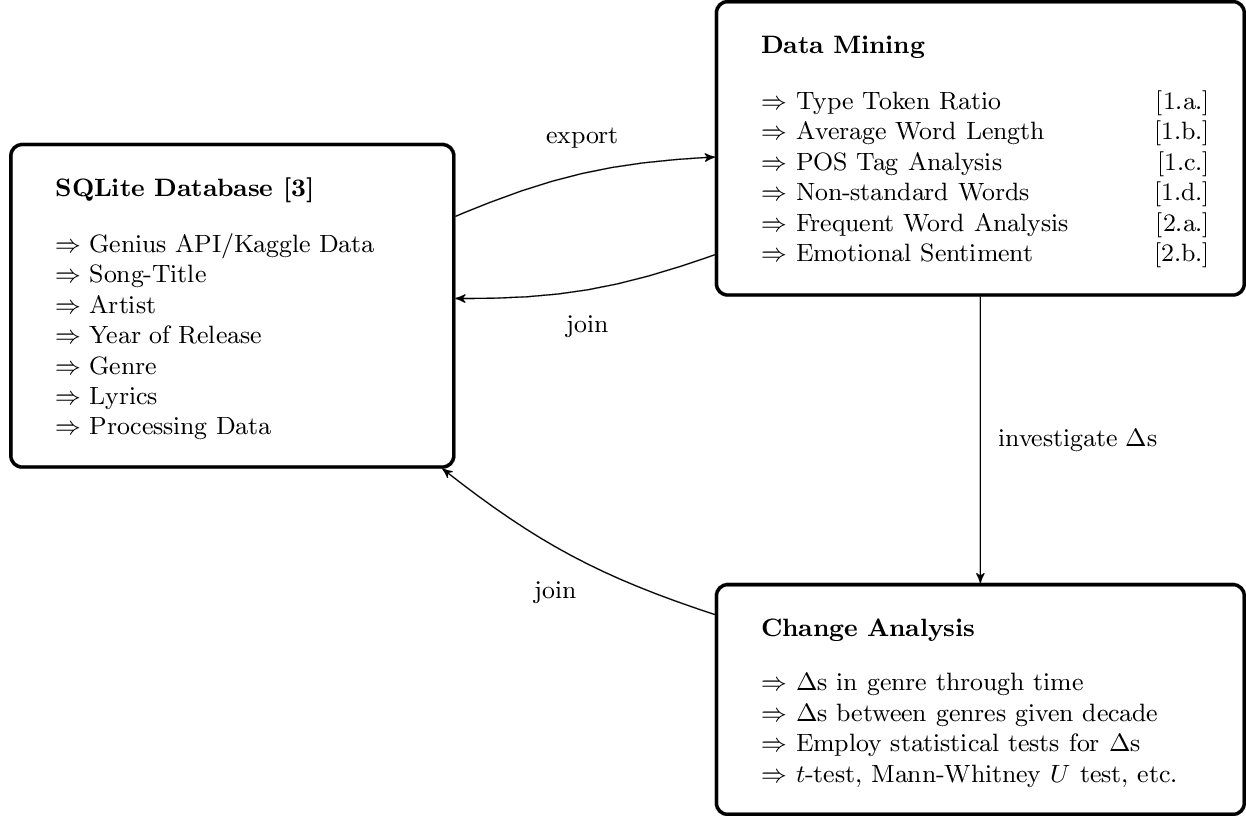
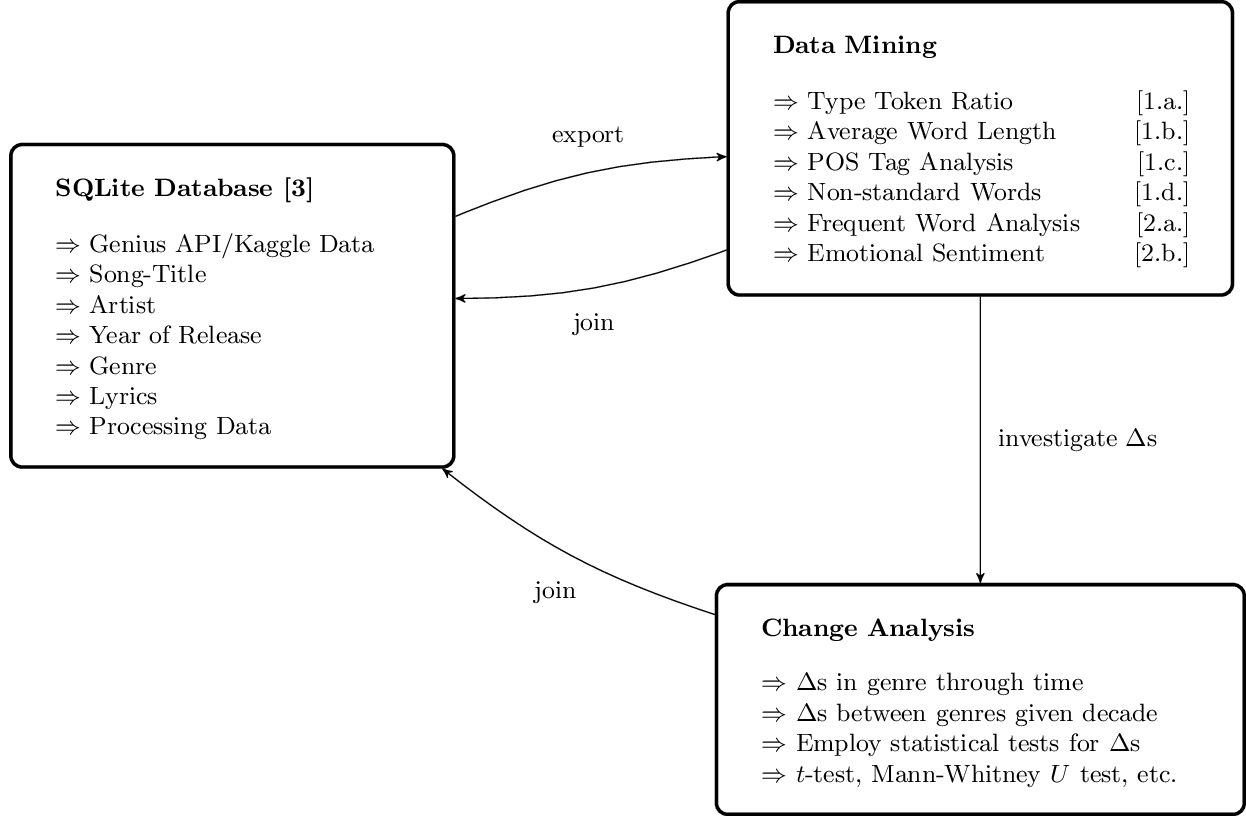
:snail: changes to repo structure

diff --git a/docs/pp/flowchart.tex b/docs/pp/flowchart.tex
@@ -37,7 +37,7 @@
 
 % create P node
 \node[state,
-text width=6cm,
+text width=5.7cm,
 yshift=2cm, 
 xshift = 3cm,
 right of=QUERY,
@@ -46,7 +46,7 @@ anchor=center] (P)
 {
 	\begin{tabular}{l}
 	\textbf{\small Data Mining}\\[10pt]
-	\parbox{5.7cm}{\raggedright \small
+	\parbox{5.3cm}{\raggedright \small
 		$\Rightarrow$ Type Token Ratio \hfill [1.a.]\\
 		$\Rightarrow$ Average Word Length \hfill [1.b.]\\
 		$\Rightarrow$ POS Tag Analysis \hfill [1.c.]\\

diff --git a/src/freq_main_genius.py b/src/freq_main_genius.py
@@ -1,7 +1,5 @@
 #!/usr/bin/env python3
 # -*- coding: utf-8 -*-
-#!/usr/bin/env python3
-# -*- coding: utf-8 -*-
 
 # imports and data structures
 import os

diff --git a/docs/protocols.md b/docs/protocols.md
@@ -68,4 +68,17 @@
 
 ## Jan 22. 2019 (Presentation Discussion)
 
-* The details of our discussion are captured in this [flowchart](presentation_todos.pdf).
+* The details of our discussion are captured in this [flowchart](/docs/img/presentation_todos.pdf).
+
+## Feb 5. 2019
+
+* try postagging lyrics and then lemmatizing for freq which could be used for Jules' task
+* filter languages to english
+* modify db class to allow for different databases and kaggle
+* try to filter same artists in each temporal step to keep similarity
+* large corpus will have some significant change over time
+* can do z test instead of t
+* investigate effect size for statistical change
+* combine computing power in due time
+* consider paired/unpaired methods
+* use existing classifier for sentiment/train some on data

diff --git a/docs/data_summary/freqAnalysis.md b/docs/data_summary/freqAnalysis.md
@@ -10,18 +10,18 @@ The corresponding WordClouds can be seen below:
 
 **1. Hip-Hop**
 
-<img src = "/data/img/cloudhip-hopPlain.png" width = "500">
+<img src = "/data/img/cloudhipPlain.png" width = "500">
 
-**2. Rock**
-
-<img src = "/data/img/cloudrockPlain.png" width = "500">
-
-**3. Country**
+**2. Country**
 
 <img src = "/data/img/cloudcountryPlain.png" width = "500">
 
-And finally, we had tried to use the same analysis on an artist. Here, we did it for Beyonce.
+We also experimented using more exciting masks for word-clouds.
 
-**4. Beyonce**
+**1. Hip-Hop (Biggie)**
 
-<img src = "/data/img/cloudbeyoncePlain.png" width = "500">
+<img src = "/data/img/cloudHipMask.png" width = "500">
+
+**2. Rock (Guitar)**
+
+<img src = "/data/img/cloudRock.png" width = "500">

diff --git a/tmp/README.md b/tmp/README.md
@@ -1,0 +1,3 @@
+# tmp directory
+
+Feel free to use this directory to store your local intermediate files. It is advisable not to push these to GitHub, ie. best to leave this directory empty. You can do so by creating a `.gitignore` file here. Note, the `.gitignore` file at the root of this repository already excludes certain file types.
